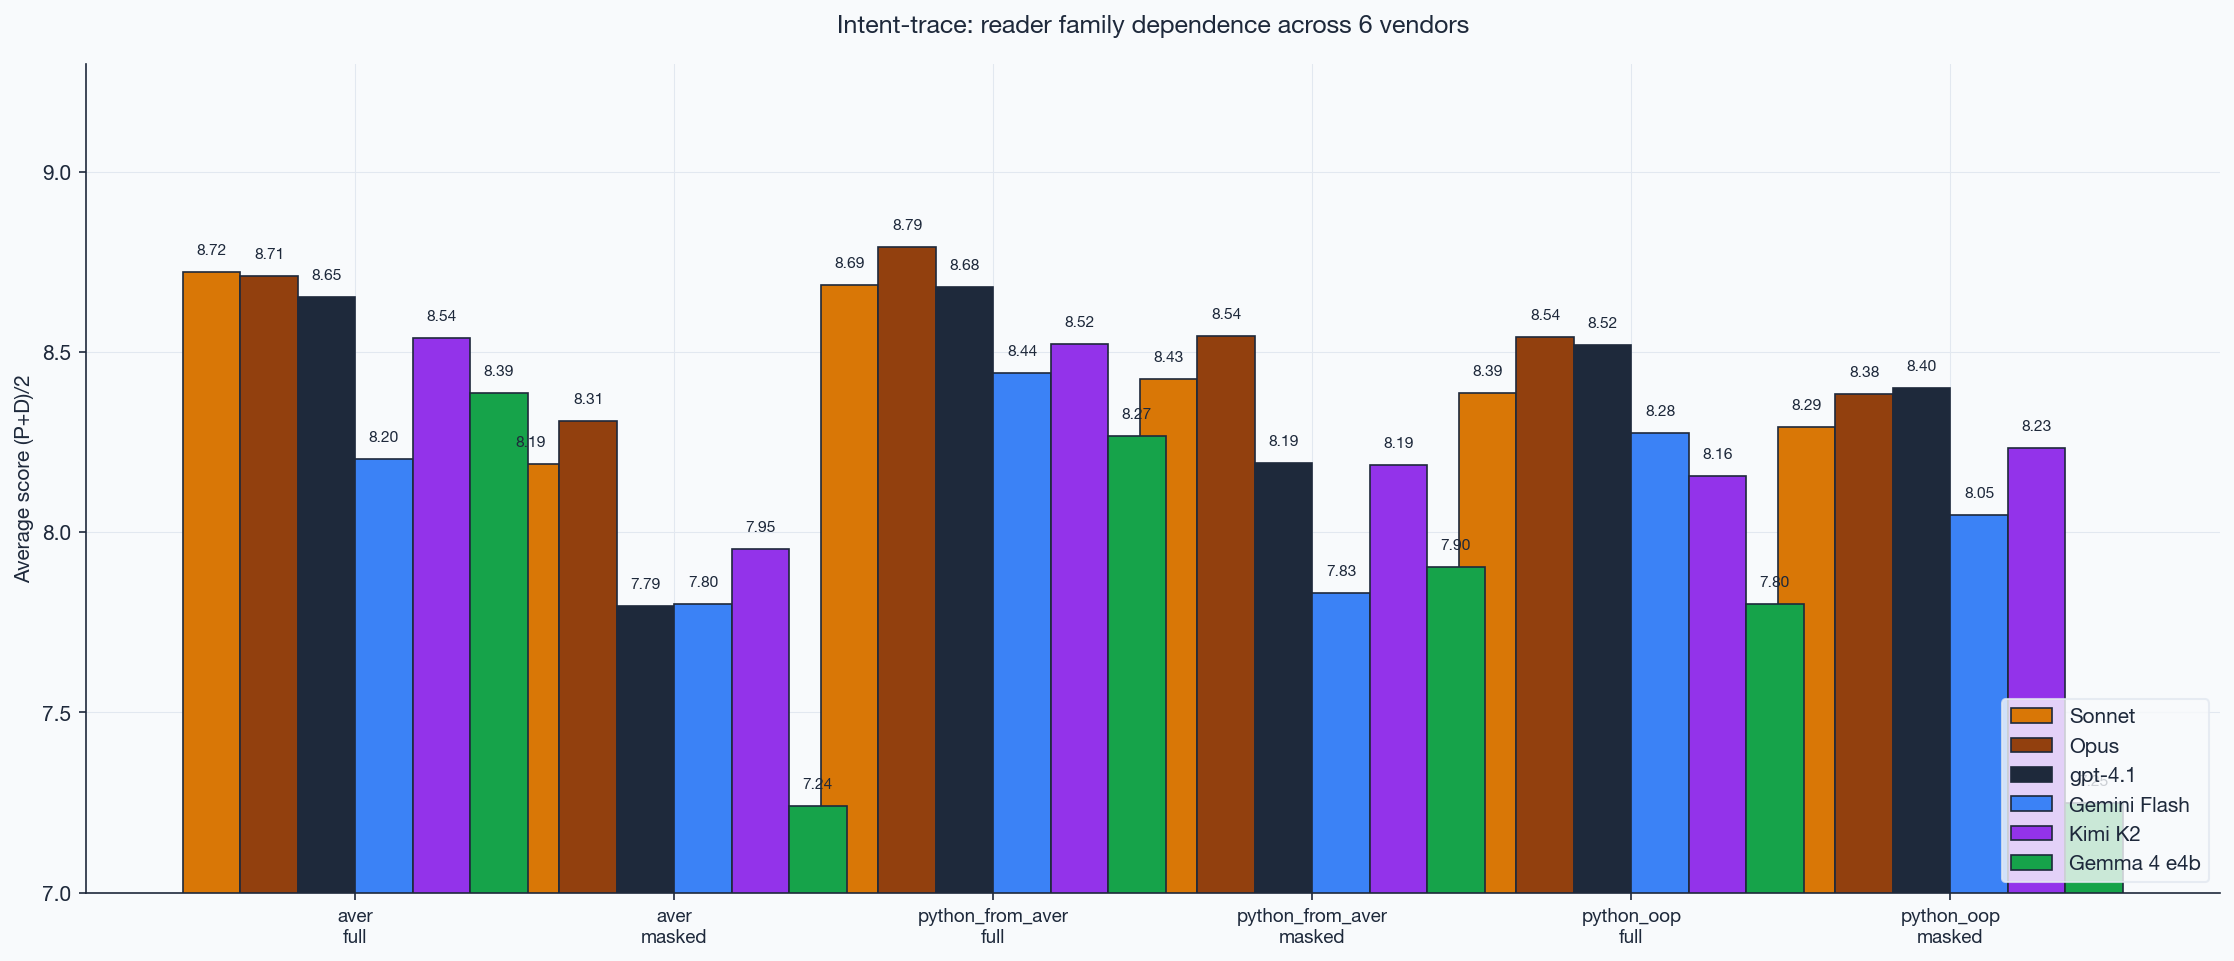
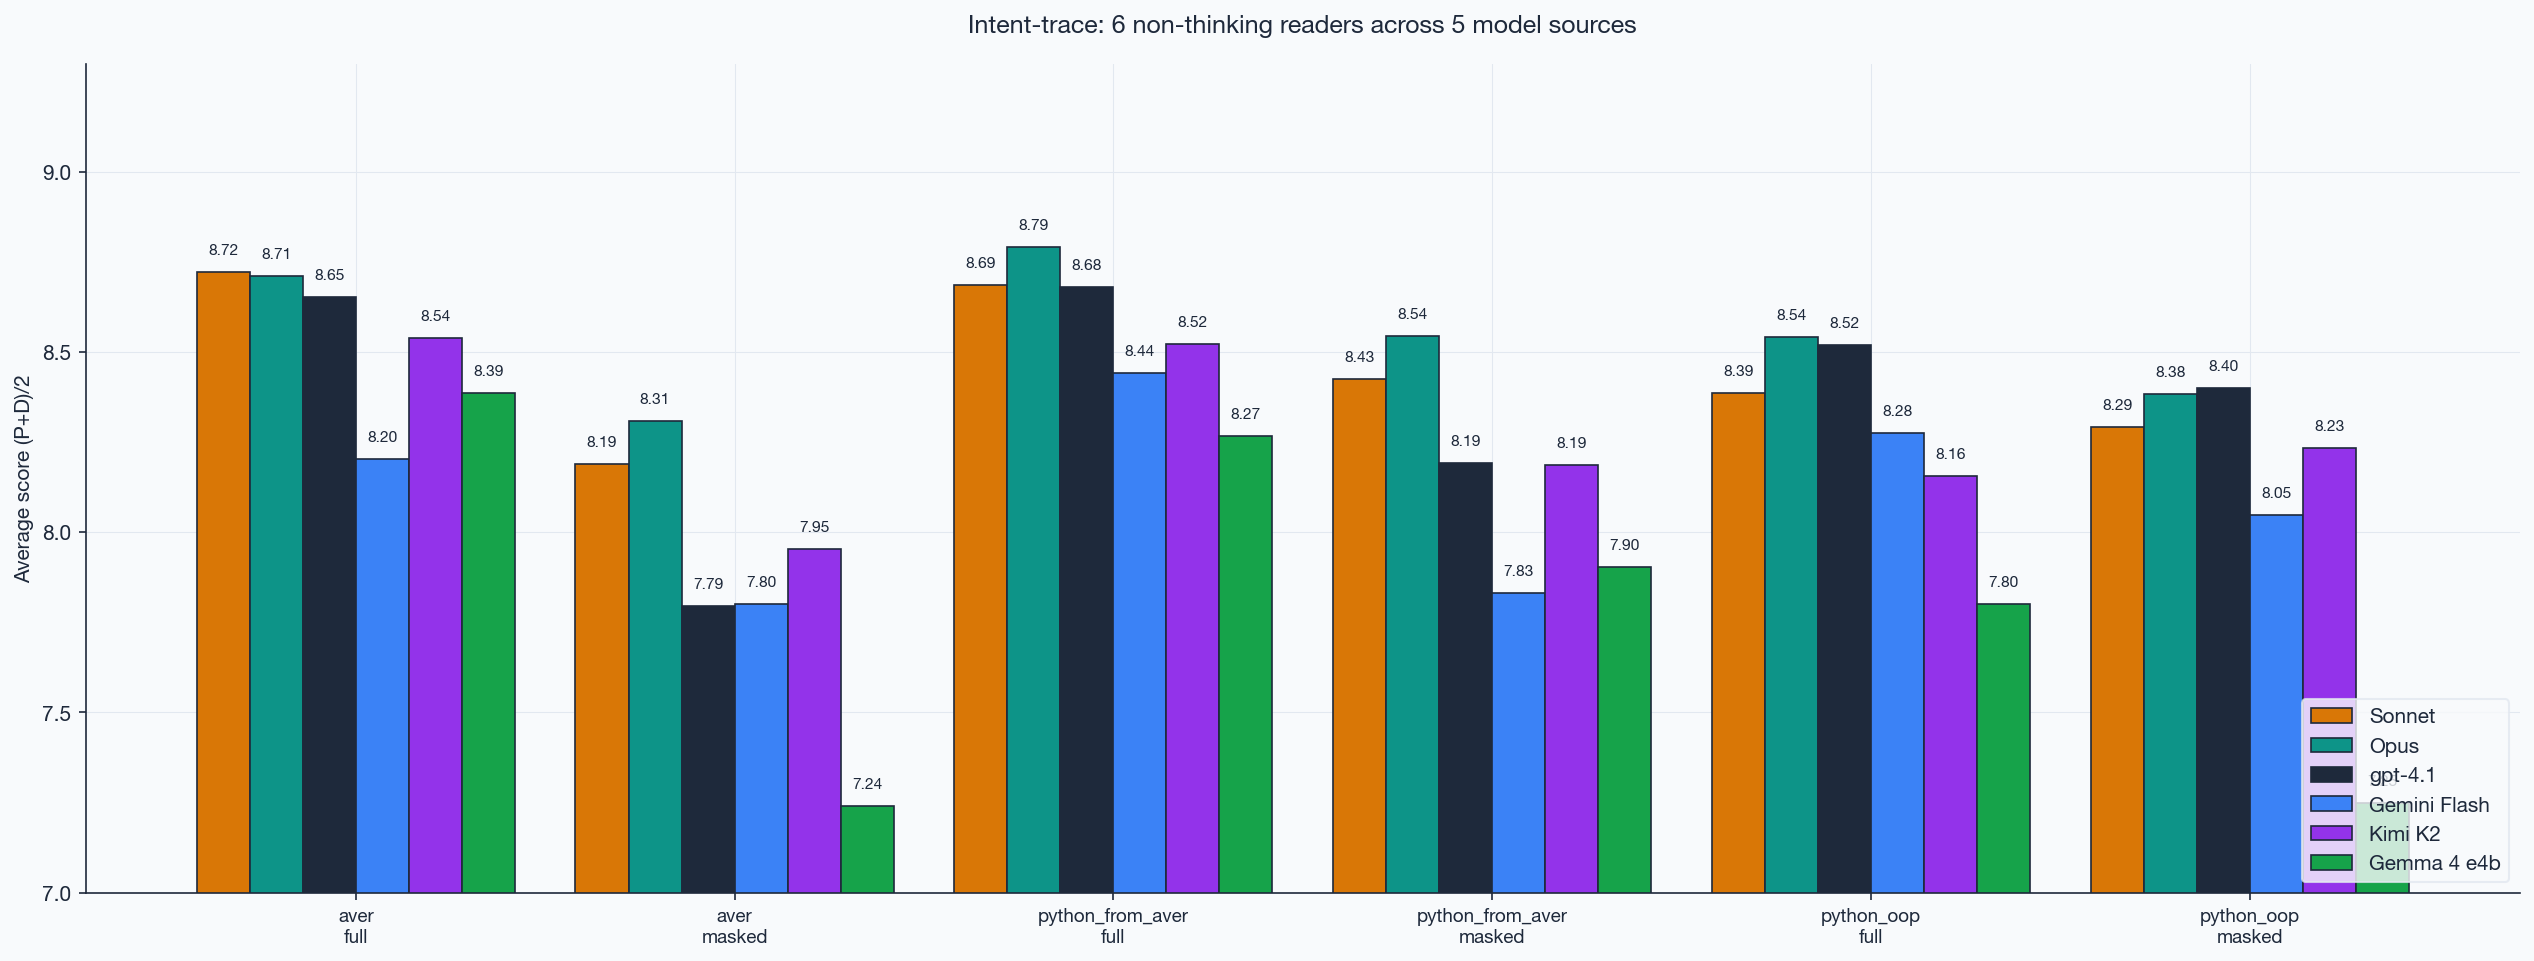
README fact-fixes + plot cleanup
- 'brand-new, unreleased' → 'brand-new, recently-released' (Aver is released, just new)
- 'no GitHub stars' → 'minimal GitHub footprint (~20 stars)' — factually accurate
- ablation_all_readers: 2×3 layout for 6 readers (mirrors ranking_all_readers_ci)
  with horizontal row separator between top/bottom rows
- drop masked_vs_masked_spec plot — its message (verify does not carry
  legibility) is already readable from the Full cross-reader comparison
  table; keeping the text paragraph, dropping the redundant figure

diff --git a/scripts/plot_judge_bias.py b/scripts/plot_judge_bias.py
@@ -259,9 +259,20 @@ def judge_family_x_lang(out_path: Path) -> None:
 
 
 def ablation_all_readers(out_path: Path) -> None:
-    """Full → masked drop per language, grouped per reader."""
+    """Full → masked drop per language, grouped per reader.
+
+    Grid layout: 2×3 for 5-6 readers, 1×N for smaller counts (mirrors
+    ranking_all_readers_ci so comparable visual rhythm)."""
     n = len(READERS)
-    fig, axes = plt.subplots(1, n, figsize=(4.7 * n, 5.5), sharey=True)
+    if n >= 5:
+        ncols = 3
+        nrows = (n + ncols - 1) // ncols
+        fig, axes_grid = plt.subplots(nrows, ncols, figsize=(5 * ncols, 5.2 * nrows), sharey=True)
+        axes = axes_grid.flatten() if nrows > 1 else axes_grid
+    else:
+        fig, axes = plt.subplots(1, n, figsize=(4.7 * n, 5.5), sharey=True)
+        if n == 1:
+            axes = [axes]
 
     for ax, (reader, path) in zip(axes, READERS.items()):
         rows = load_rows(path)
@@ -306,18 +317,38 @@ def ablation_all_readers(out_path: Path) -> None:
         for spine in ["top", "right"]:
             ax.spines[spine].set_visible(False)
 
-    axes[0].set_ylabel("Average score (P+D)/2", fontweight="bold")
-    # Custom legend for hatch meaning
+    # Y-label on leftmost of each row
+    if n >= 5:
+        ncols_eff = 3
+        for row in range(0, len(axes), ncols_eff):
+            axes[row].set_ylabel("Average score (P+D)/2", fontweight="bold")
+    else:
+        axes[0].set_ylabel("Average score (P+D)/2", fontweight="bold")
+    # Hide extra axes if grid bigger than reader count
+    for extra_idx in range(len(READERS), len(axes)):
+        axes[extra_idx].set_visible(False)
+    # Custom legend for hatch meaning — attach to last visible axis
     from matplotlib.patches import Patch
     legend_items = [
         Patch(facecolor=SLATE_LIGHT, edgecolor=SLATE, label="full (prose included)"),
         Patch(facecolor=SLATE_LIGHT, edgecolor=SLATE, hatch="////", label="masked (prose stripped)"),
     ]
-    axes[-1].legend(handles=legend_items, loc="lower left", fontsize=9,
-                    frameon=True, facecolor=BG, edgecolor=SLATE_LIGHT)
+    axes[len(READERS) - 1].legend(handles=legend_items, loc="lower left", fontsize=9,
+                                   frameon=True, facecolor=BG, edgecolor=SLATE_LIGHT)
     fig.suptitle("Ablation: masking prose always hurts Aver most, OOP Python never",
-                 fontweight="bold", fontsize=12, y=1.02)
+                 fontweight="bold", fontsize=12, y=1.00)
     plt.tight_layout()
+    # Horizontal row separator for multi-row grids
+    if n >= 5 and len(axes) > 3:
+        fig.subplots_adjust(hspace=0.55)
+        import matplotlib.lines as mlines
+        top_row_bottom = axes[0].get_position().y0
+        bot_row_top = axes[3].get_position().y1
+        sep_y = (top_row_bottom + bot_row_top) / 2
+        sep = mlines.Line2D([0.05, 0.95], [sep_y, sep_y],
+                            color=SLATE, linewidth=1.0,
+                            transform=fig.transFigure, figure=fig)
+        fig.add_artist(sep)
     plt.savefig(out_path, dpi=150, facecolor=BG, bbox_inches="tight")
     print(f"wrote: {out_path}")
 
@@ -895,7 +926,6 @@ def main() -> None:
     program_lang_ranking(out_dir / "program_lang_ranking.png")
     program_complexity_advantage(out_dir / "program_complexity_advantage.png")
     program_reader_heatmap(out_dir / "program_reader_heatmap.png")
-    masked_vs_masked_spec(out_dir / "masked_vs_masked_spec.png")
     ranking_all_readers_ci(out_dir / "ranking_all_readers_ci.png")
     diff_type_stratification(out_dir / "diff_type_stratification.png")
     interjudge_heatmap(out_dir / "interjudge_heatmap.png")

diff --git a/scripts/plot_results.py b/scripts/plot_results.py
@@ -228,7 +228,7 @@ READER_PATHS = {
 }
 READER_COLORS = {
     "Sonnet": AMBER,            # Anthropic — brand amber
-    "Opus": AMBER_DARK,         # Anthropic — dark amber
+    "Opus": "#0d9488",          # Anthropic — teal (distinct from Sonnet amber)
     "gpt-4.1": SLATE,           # OpenAI — slate
     "Gemini Flash": "#3b82f6",  # Google cloud — blue
     "Kimi K2": "#9333ea",       # Moonshot — purple
@@ -250,8 +250,8 @@ def plot_3way_readers(out_path: Path) -> None:
     labels = [f"{lang}\n{view}" for lang, view in cells]
 
     n_readers = len(readers_data)
-    bar_w = 0.18
-    fig, ax = plt.subplots(figsize=(15, 6.5))
+    bar_w = 0.14
+    fig, ax = plt.subplots(figsize=(17, 6.5))
     positions = range(len(cells))
     for i, (reader, d) in enumerate(readers_data.items()):
         values = [d[k]["avg"] if k in d else 0 for k in cells]
@@ -266,7 +266,7 @@ def plot_3way_readers(out_path: Path) -> None:
     ax.set_xticks(list(positions))
     ax.set_xticklabels(labels, fontsize=9)
     ax.set_ylabel("Average score (P+D)/2", fontweight="bold")
-    ax.set_title(f"Intent-trace: reader family dependence across {n_readers} vendors",
+    ax.set_title(f"Intent-trace: {n_readers} non-thinking readers across 5 model sources",
                  fontweight="bold", pad=15, color=SLATE)
     ax.set_ylim(7.0, 9.3)
     ax.legend(loc="lower right", frameon=True,

diff --git a/README.md b/README.md
@@ -2,7 +2,7 @@
 
 **An empirical benchmark for how much change-level author intent survives a code diff — measured with an LLM reviewer.**
 
-> ⚠ **Key context: [Aver](https://averlang.dev) is a brand-new, unreleased programming language — LLMs have essentially zero training exposure to it.** No Aver code in training corpora, no tutorials, no Stack Overflow posts, no GitHub stars. This benchmark asks whether a new language's structural intent declarations (`intent`, `decision`, `?`, `verify`) are legible to an AI reviewer *without any training advantage* — compared against Python variants carrying the same intent structure.
+> ⚠ **Key context: [Aver](https://averlang.dev) is a brand-new, recently-released programming language — LLMs have essentially zero training exposure to it.** No Aver code in training corpora, no tutorials, no Stack Overflow posts, minimal GitHub footprint (~20 stars at time of measurement). This benchmark asks whether a new language's structural intent declarations (`intent`, `decision`, `?`, `verify`) are legible to an AI reviewer *without any training advantage* — compared against Python variants carrying the same intent structure.
 >
 > **TL;DR:** Empirical benchmark of how much change-level author intent an LLM reviewer can reconstruct from a unified diff. 6 non-thinking reader LLMs across 5 model sources (Anthropic / OpenAI / Google / Moonshot / Google-OSS Gemma local) × 6 cross-vendor judges × 18 refactor prompts × 4 programs × 3 language variants (Aver, Aver-in-Python, idiomatic Python) × 3 views (full / masked / verify-preserving), plus separate thinking-tier probes. ~13,000 judgments, 100% judge coverage verified.
 
@@ -312,9 +312,7 @@ Thinking reader data: `results/merged/kimi2.5.jsonl` (126 slices, 100% coverage 
 
 ### Verify-preserving ablation (`masked_spec` vs `masked`)
 
-![masked vs masked_spec](results/plots/masked_vs_masked_spec.png)
-
-Addresses an asymmetry concern: `masked` strips Aver's `verify` blocks even though they're executable spec (like Python `assert`, which isn't stripped). `masked_spec` keeps `verify`, strips narrative only. Aver `masked → masked_spec` deltas: +0.06 / +0.17 / −0.17 / −0.10 across Sonnet / gpt-4.1 / Gemini / Kimi — all four inside the 0.11 replication-noise floor (or close to 2× of it). **Verify is spec, not review-time doc** — the legibility drop comes from narrative prose (`intent`/`decision`/`?`), not from `verify`. (For pfa/oop the same view is identical input to `masked` since `assert` isn't stripped, which is what gave us the noise floor measurement.)
+Addresses an asymmetry concern: `masked` strips Aver's `verify` blocks even though they're executable spec (like Python `assert`, which isn't stripped). `masked_spec` keeps `verify`, strips narrative only. Aver `masked → masked_spec` deltas: +0.06 / +0.17 / −0.17 / −0.10 across Sonnet / gpt-4.1 / Gemini / Kimi — all four inside the 0.11 replication-noise floor (or close to 2× of it). **Verify is spec, not review-time doc** — the legibility drop comes from narrative prose (`intent`/`decision`/`?`), not from `verify`. (For pfa/oop the same view is identical input to `masked` since `assert` isn't stripped, which is what gave us the noise floor measurement.) Numbers per reader visible in the "Full cross-reader comparison" table above (compare the `aver/masked` vs `aver/masked_spec` rows).
 
 ## Findings
 
